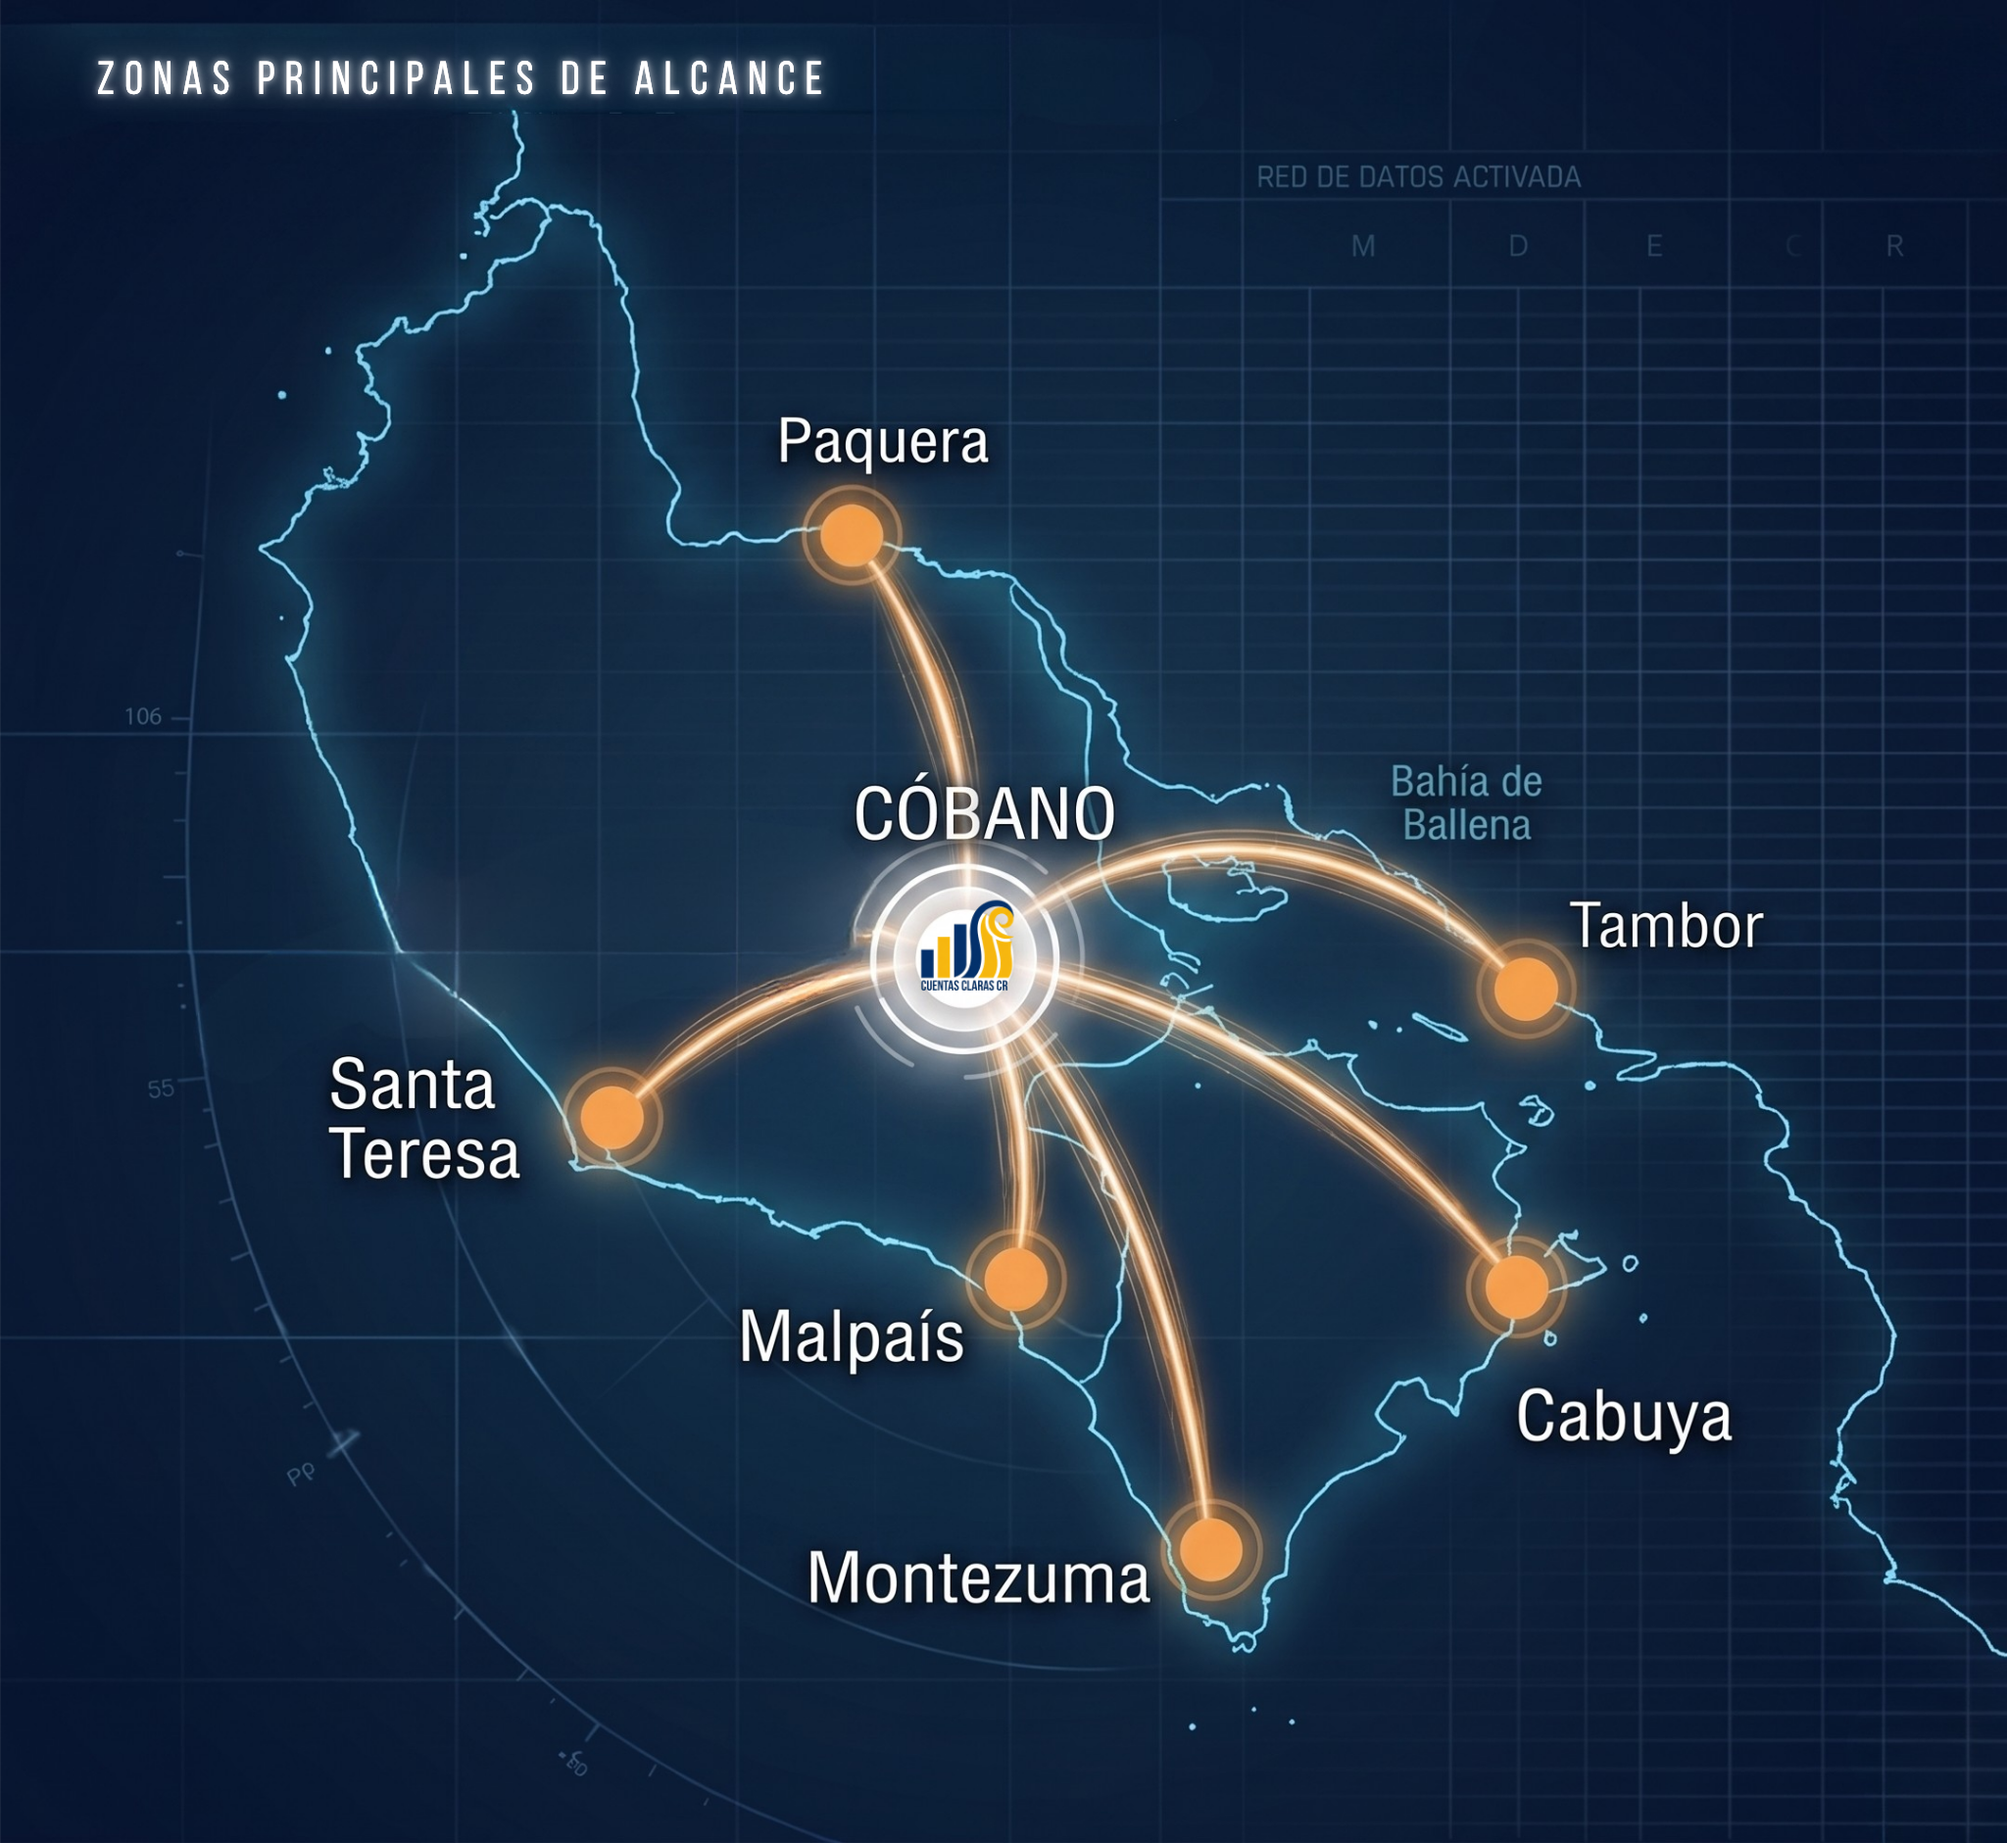
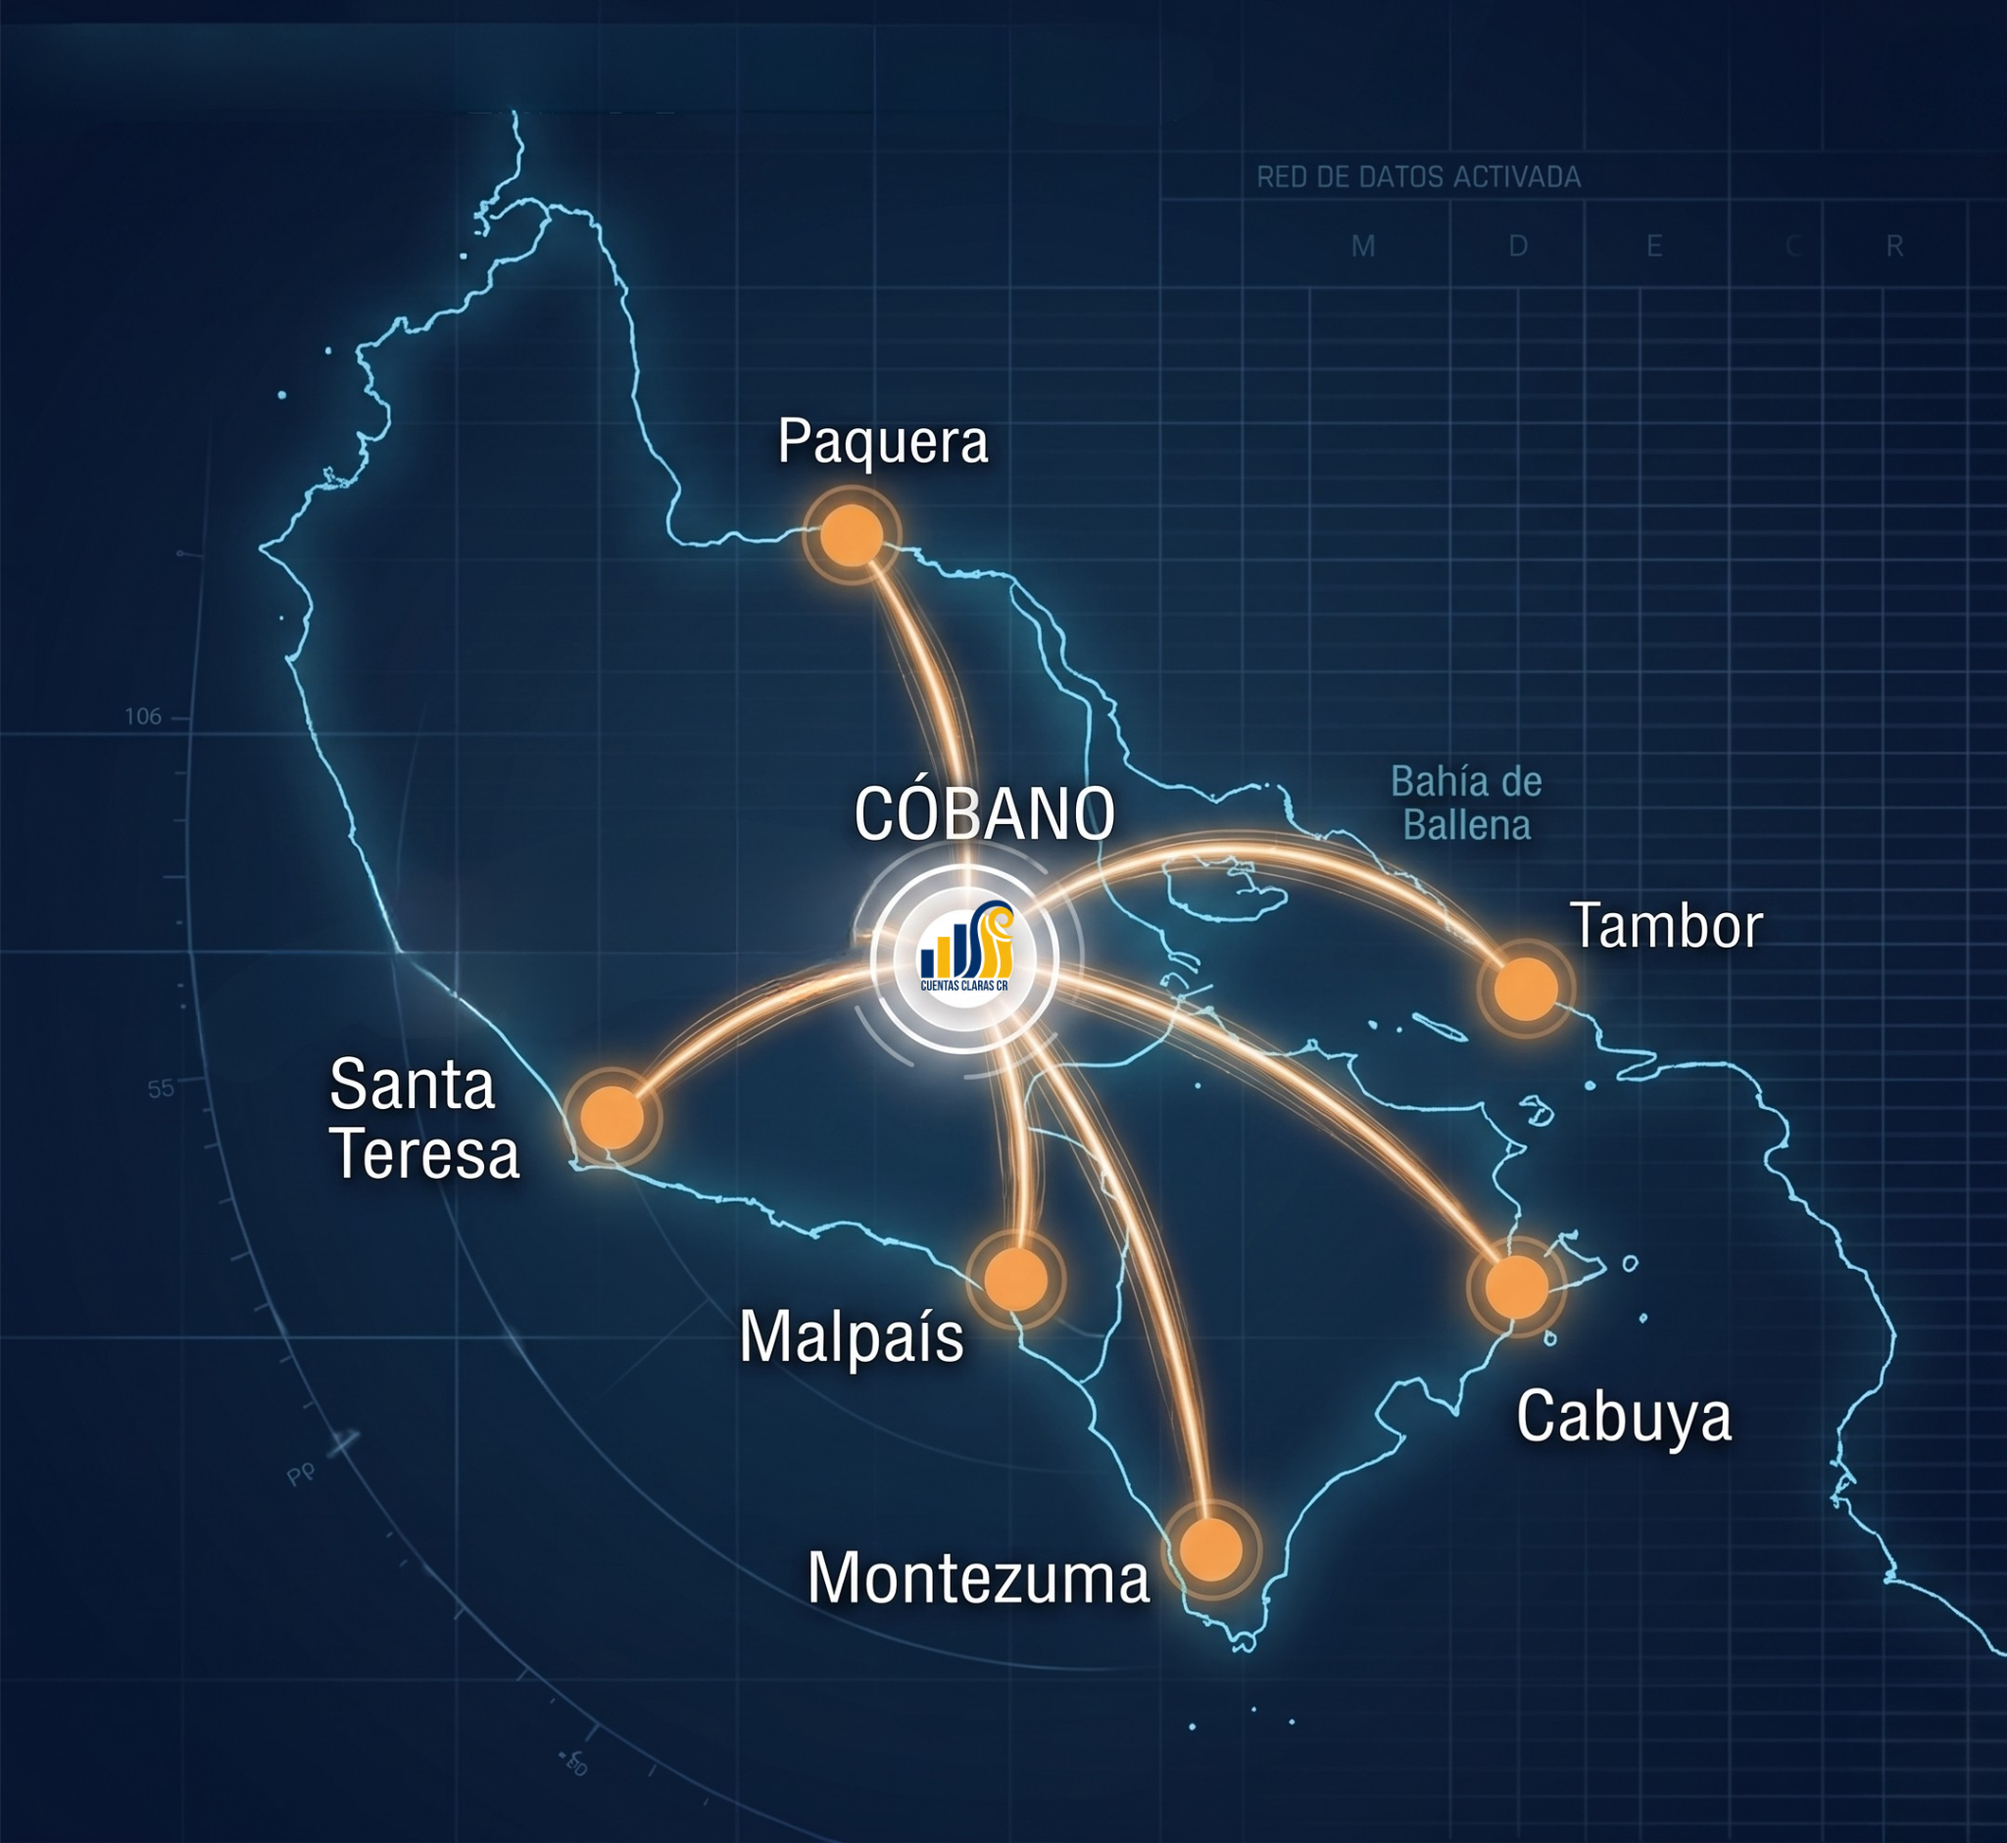
update mapa y leyenda

Changed region(s): [[0.0312, 0.0308, 0.4062, 0.0617]]

diff --git a/index.html b/index.html
@@ -196,6 +196,7 @@
 					<aside class="process-map-card">
 					<picture>
 						<img src="img/mapa.png" alt="Mapa de ubicación de Cuentas Claras" class="process-map-image" loading="lazy">
+						<h3 id="zonas">Zonas principales de alcance</h3>
 					</picture>
 					</aside>
 				</div>

diff --git a/style.css b/style.css
@@ -885,6 +885,11 @@ body.dark-theme .metric-card {
   border-radius: 14px;
 }
 
+#zonas {
+  text-align: center;
+  font-weight: 500;
+}
+
 .step {
   position: relative;
   display: grid;
